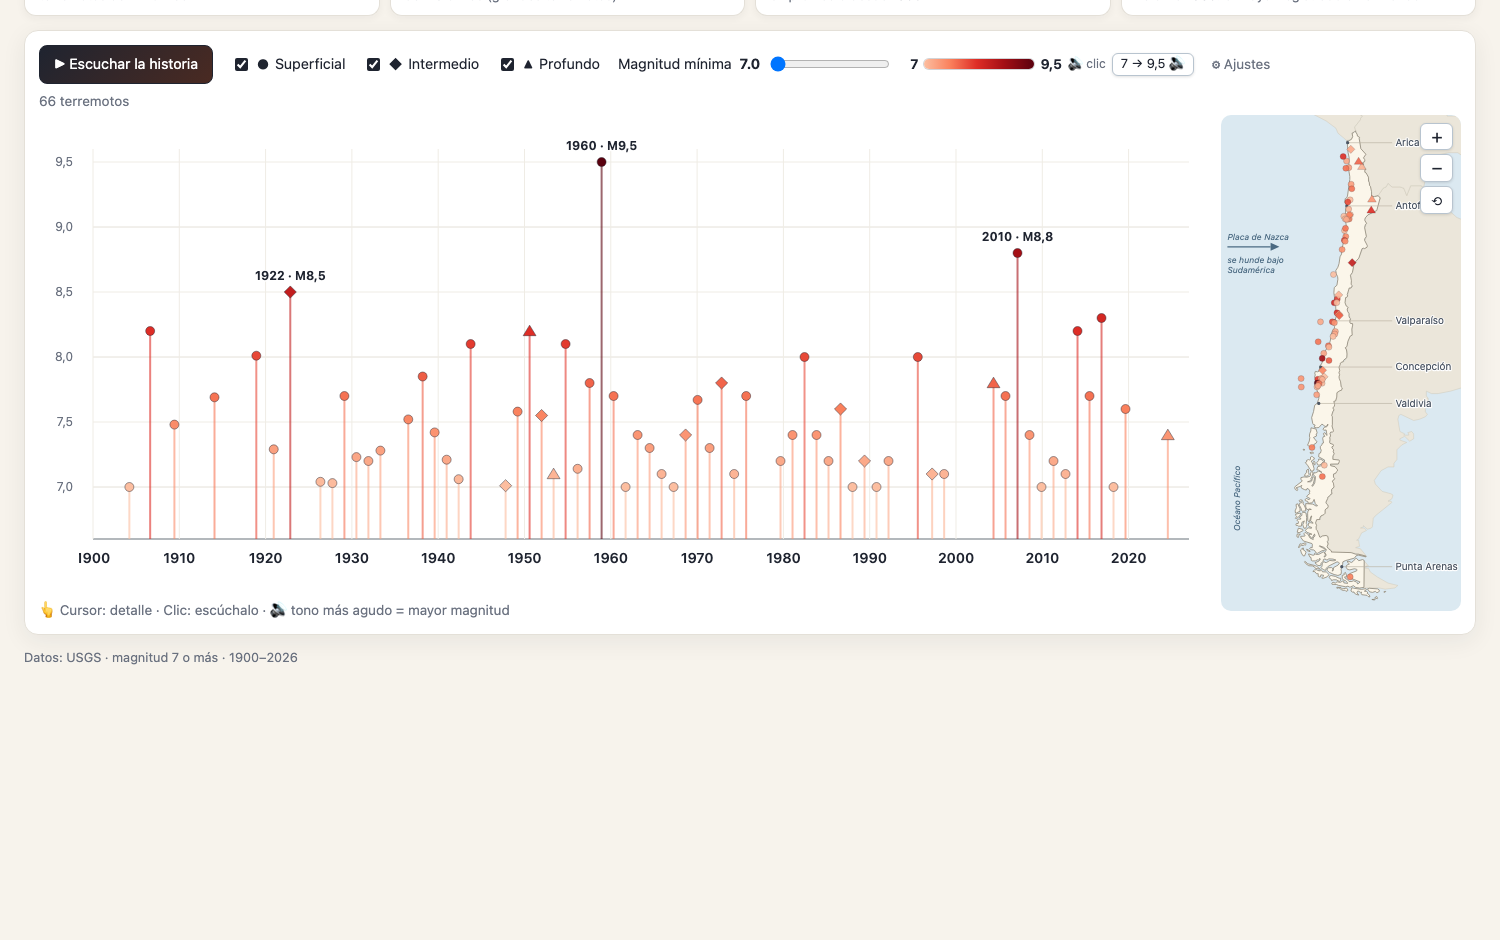
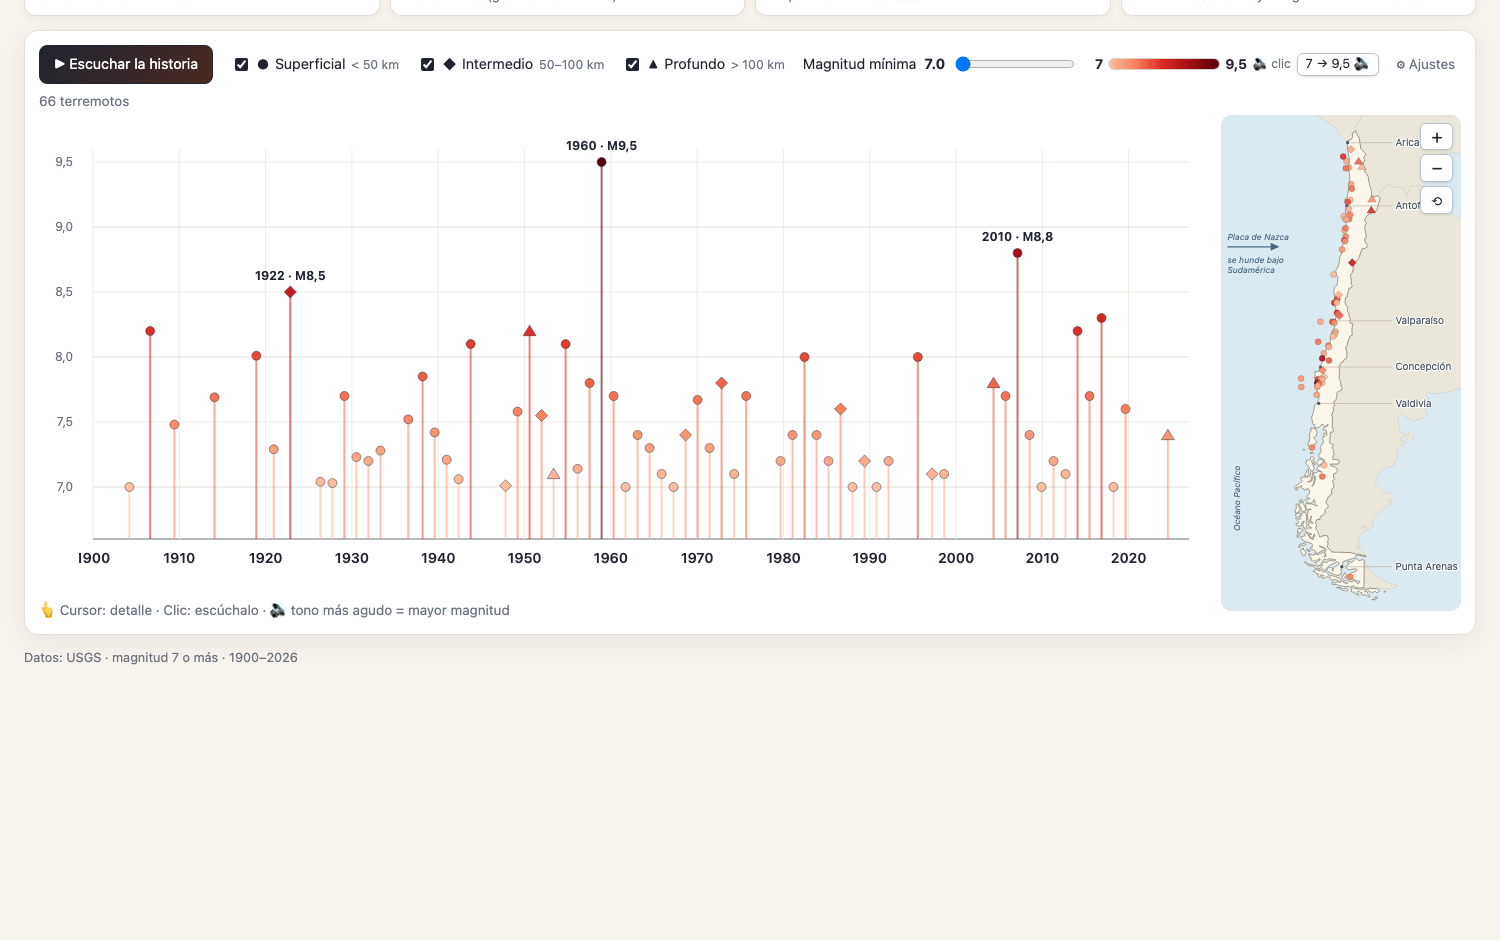
Actualiza la captura y la nota de la V4 con la etiqueta de profundidad

Changed region(s): [[0.2453, 0.0617, 0.9813, 0.0926]]

diff --git a/docs/evidencia/LEEME.md b/docs/evidencia/LEEME.md
@@ -7,7 +7,7 @@ Cada captura corresponde al código exacto de su versión, identificado por su t
 | V1 | `v1` | `8756ee7` | 13-10-2026 10:26 | `v1.png` |
 | V2 | `v2` | `8d4688a` | 13-10-2026 11:03 | `v2.png` |
 | V3 | `v3` | `6bae955` | 16-10-2026 13:25 | `v3.png` |
-| V4 | `v4` | `00432b5` | 22-10-2026 11:08 | `v4.png` |
+| V4 | `v4` | `dc2c858` | 22-10-2026 15:43 | `v4.png` |
 
 ## Sonido de cada versión (no se puede capturar en una imagen; está en el video de cada una)
 
